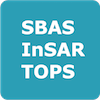
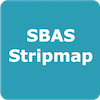
up sbas stripmap

diff --git a/source/tutorials/gpod-sbas-insar.rst b/source/tutorials/gpod-sbas-insar.rst
@@ -3,13 +3,13 @@ G-POD SBAS InSAR Service
 
 .. image:: assets/tuto_sbas_icon.png
         
-**SBAS-InSAR Sentinel-1 TOPS (GPOD)**
+**SBAS Stripmap (GPOD)**
 
-The Small BAseline Subsets (SBAS) algorithm has been developed by IREA-CNR for monitoring temporal evolution of surface deformations and to generate interferograms stacks as well. The Parallel-SBAS (P-SBAS) algorithm version has been integrated on the ESA's Grid Processing On Demand (G-POD) to exploit the avaialble High Performance Computing resources.
+The InSAR Small BAseline Subsets (SBAS) algorithm has been developed by IREA-CNR for monitoring temporal evolution of surface deformations and to generate interferograms stacks as well. The InSAR Parallel-SBAS (P-SBAS) algorithm version has been integrated on the ESA's Grid Processing On Demand (G-POD) to exploit the available High Performance Computing resources.
 
 **EO sources supported**:
 
-    - Sentinel-1
+    - ENVISAT ASAR L0/ ERS L0 (CEOS format)
 
 **Output specifications**
 
